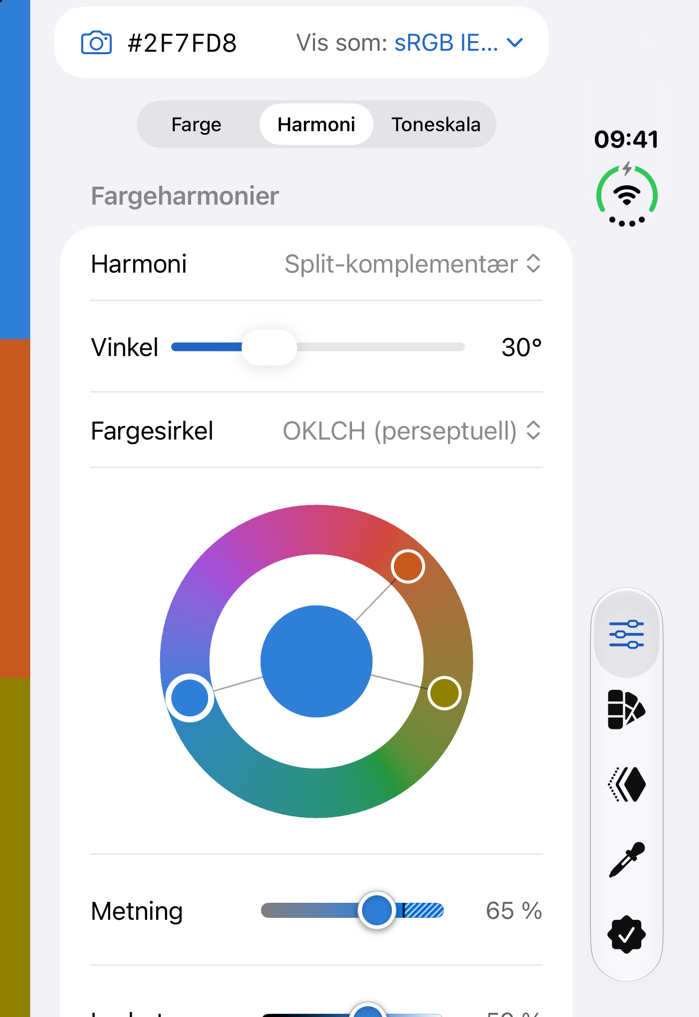
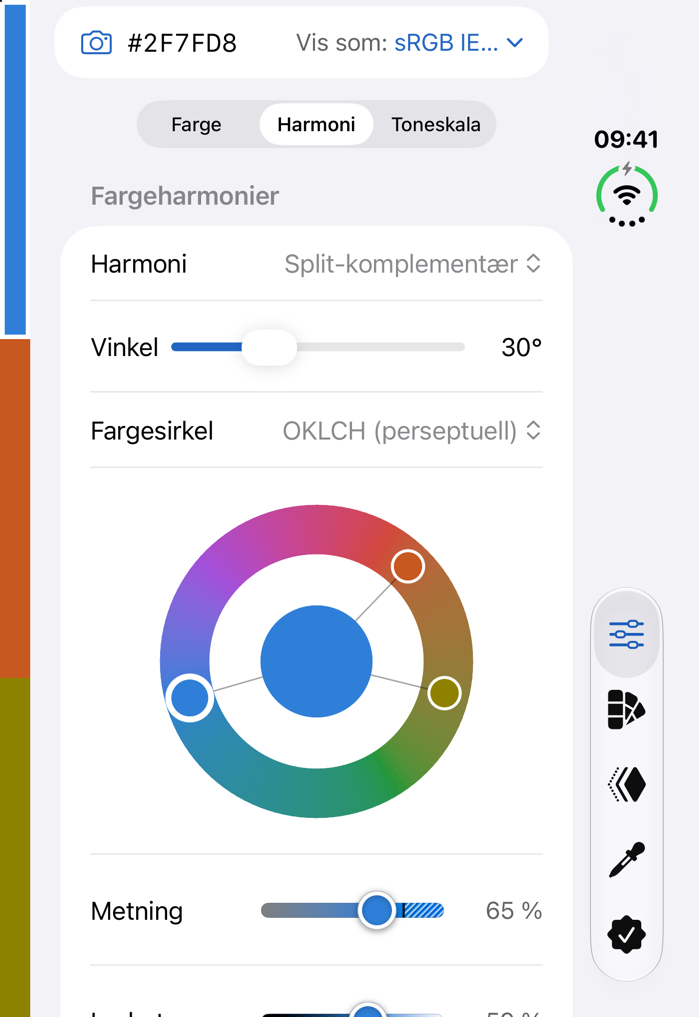
Web 1.4 Duo-siden: lukket Harmoni (nb, en), Overgang og Farger (en) på nytt med rammene i fargelinjen

Changed region(s): [[0.0, 0.0, 0.0601, 0.3353]]

diff --git a/web/1.4/en/duo.html b/web/1.4/en/duo.html
@@ -69,11 +69,11 @@
       </div>
       <div class="duo-bilder">
         <figure class="duo-lukket">
-          <img src="../assets/en/duo/lukket-studio-farge.png?d=2" alt="Studio with the colour and the sliders – closed" width="699" height="1017" loading="lazy">
+          <img src="../assets/en/duo/lukket-studio-farge.png?d=3" alt="Studio with the colour and the sliders – closed" width="699" height="1017" loading="lazy">
           <figcaption>Closed</figcaption>
         </figure>
         <figure class="duo-åpen">
-          <img src="../assets/en/duo/apen-studio-farge.png?d=2" alt="Studio with the colour and the sliders – open" width="1427" height="1004" loading="lazy">
+          <img src="../assets/en/duo/apen-studio-farge.png?d=3" alt="Studio with the colour and the sliders – open" width="1427" height="1004" loading="lazy">
           <figcaption>Open</figcaption>
         </figure>
       </div>
@@ -90,11 +90,11 @@
       </div>
       <div class="duo-bilder">
         <figure class="duo-lukket">
-          <img src="../assets/en/duo/lukket-studio-harmoni.png?d=2" alt="A split-complementary harmony – closed" width="699" height="1017" loading="lazy">
+          <img src="../assets/en/duo/lukket-studio-harmoni.png?d=3" alt="A split-complementary harmony – closed" width="699" height="1017" loading="lazy">
           <figcaption>Closed</figcaption>
         </figure>
         <figure class="duo-åpen">
-          <img src="../assets/en/duo/apen-studio-harmoni.png?d=2" alt="A split-complementary harmony – open" width="1427" height="1004" loading="lazy">
+          <img src="../assets/en/duo/apen-studio-harmoni.png?d=3" alt="A split-complementary harmony – open" width="1427" height="1004" loading="lazy">
           <figcaption>Open</figcaption>
         </figure>
       </div>
@@ -110,11 +110,11 @@
       </div>
       <div class="duo-bilder">
         <figure class="duo-lukket">
-          <img src="../assets/en/duo/lukket-studio-toneskala.png?d=2" alt="A tone scale with eleven steps – closed" width="699" height="1017" loading="lazy">
+          <img src="../assets/en/duo/lukket-studio-toneskala.png?d=3" alt="A tone scale with eleven steps – closed" width="699" height="1017" loading="lazy">
           <figcaption>Closed</figcaption>
         </figure>
         <figure class="duo-åpen">
-          <img src="../assets/en/duo/apen-studio-toneskala.png?d=2" alt="A tone scale with eleven steps – open" width="1427" height="1004" loading="lazy">
+          <img src="../assets/en/duo/apen-studio-toneskala.png?d=3" alt="A tone scale with eleven steps – open" width="1427" height="1004" loading="lazy">
           <figcaption>Open</figcaption>
         </figure>
       </div>
@@ -130,11 +130,11 @@
       </div>
       <div class="duo-bilder">
         <figure class="duo-lukket">
-          <img src="../assets/en/duo/lukket-overgang.png?d=2" alt="A gradient in seven tones – closed" width="699" height="1017" loading="lazy">
+          <img src="../assets/en/duo/lukket-overgang.png?d=3" alt="A gradient in seven tones – closed" width="699" height="1017" loading="lazy">
           <figcaption>Closed</figcaption>
         </figure>
         <figure class="duo-åpen">
-          <img src="../assets/en/duo/apen-overgang.png?d=2" alt="A gradient in seven tones – open" width="1427" height="1004" loading="lazy">
+          <img src="../assets/en/duo/apen-overgang.png?d=3" alt="A gradient in seven tones – open" width="1427" height="1004" loading="lazy">
           <figcaption>Open</figcaption>
         </figure>
       </div>
@@ -150,11 +150,11 @@
       </div>
       <div class="duo-bilder">
         <figure class="duo-lukket">
-          <img src="../assets/en/duo/lukket-kontrast.png?d=2" alt="Contrast check for text on a white background – closed" width="699" height="1017" loading="lazy">
+          <img src="../assets/en/duo/lukket-kontrast.png?d=3" alt="Contrast check for text on a white background – closed" width="699" height="1017" loading="lazy">
           <figcaption>Closed</figcaption>
         </figure>
         <figure class="duo-åpen">
-          <img src="../assets/en/duo/apen-kontrast.png?d=2" alt="Contrast check for text on a white background – open" width="1427" height="1004" loading="lazy">
+          <img src="../assets/en/duo/apen-kontrast.png?d=3" alt="Contrast check for text on a white background – open" width="1427" height="1004" loading="lazy">
           <figcaption>Open</figcaption>
         </figure>
       </div>
@@ -170,11 +170,11 @@
       </div>
       <div class="duo-bilder">
         <figure class="duo-lukket">
-          <img src="../assets/en/duo/lukket-deltae.png?d=2" alt="The colour difference between two colours – closed" width="699" height="1017" loading="lazy">
+          <img src="../assets/en/duo/lukket-deltae.png?d=3" alt="The colour difference between two colours – closed" width="699" height="1017" loading="lazy">
           <figcaption>Closed</figcaption>
         </figure>
         <figure class="duo-åpen">
-          <img src="../assets/en/duo/apen-deltae.png?d=2" alt="The colour difference between two colours – open" width="1427" height="1004" loading="lazy">
+          <img src="../assets/en/duo/apen-deltae.png?d=3" alt="The colour difference between two colours – open" width="1427" height="1004" loading="lazy">
           <figcaption>Open</figcaption>
         </figure>
       </div>
@@ -192,11 +192,11 @@
       </div>
       <div class="duo-bilder">
         <figure class="duo-lukket">
-          <img src="../assets/en/duo/lukket-fargesyn.png?d=2" alt="A palette with normal vision and deuteranopia – closed" width="699" height="1017" loading="lazy">
+          <img src="../assets/en/duo/lukket-fargesyn.png?d=3" alt="A palette with normal vision and deuteranopia – closed" width="699" height="1017" loading="lazy">
           <figcaption>Closed</figcaption>
         </figure>
         <figure class="duo-åpen">
-          <img src="../assets/en/duo/apen-fargesyn.png?d=2" alt="A palette with normal vision and deuteranopia – open" width="1427" height="1004" loading="lazy">
+          <img src="../assets/en/duo/apen-fargesyn.png?d=3" alt="A palette with normal vision and deuteranopia – open" width="1427" height="1004" loading="lazy">
           <figcaption>Open</figcaption>
         </figure>
       </div>
@@ -212,11 +212,11 @@
       </div>
       <div class="duo-bilder">
         <figure class="duo-lukket">
-          <img src="../assets/en/duo/lukket-lys.png?d=2" alt="A colour under several viewing conditions – closed" width="699" height="1017" loading="lazy">
+          <img src="../assets/en/duo/lukket-lys.png?d=3" alt="A colour under several viewing conditions – closed" width="699" height="1017" loading="lazy">
           <figcaption>Closed</figcaption>
         </figure>
         <figure class="duo-åpen">
-          <img src="../assets/en/duo/apen-lys.png?d=2" alt="A colour under several viewing conditions – open" width="1427" height="1004" loading="lazy">
+          <img src="../assets/en/duo/apen-lys.png?d=3" alt="A colour under several viewing conditions – open" width="1427" height="1004" loading="lazy">
           <figcaption>Open</figcaption>
         </figure>
       </div>
@@ -232,13 +232,13 @@
       </div>
       <div class="duo-bilder høyde">
         <figure class="duo-høyde">
-          <img src="../assets/en/duo/hoyde-studio-harmoni.png?d=2" alt="A harmony, upright" width="1004" height="1427" loading="lazy">
+          <img src="../assets/en/duo/hoyde-studio-harmoni.png?d=3" alt="A harmony, upright" width="1004" height="1427" loading="lazy">
         </figure>
         <figure class="duo-høyde">
-          <img src="../assets/en/duo/hoyde-overgang.png?d=2" alt="A gradient, upright" width="1004" height="1427" loading="lazy">
+          <img src="../assets/en/duo/hoyde-overgang.png?d=3" alt="A gradient, upright" width="1004" height="1427" loading="lazy">
         </figure>
         <figure class="duo-høyde">
-          <img src="../assets/en/duo/hoyde-fargesyn.png?d=2" alt="Colour vision, upright" width="1004" height="1427" loading="lazy">
+          <img src="../assets/en/duo/hoyde-fargesyn.png?d=3" alt="Colour vision, upright" width="1004" height="1427" loading="lazy">
         </figure>
       </div>
     </section>

diff --git a/web/1.4/duo.html b/web/1.4/duo.html
@@ -69,11 +69,11 @@
       </div>
       <div class="duo-bilder">
         <figure class="duo-lukket">
-          <img src="assets/duo/lukket-studio-farge.png?d=2" alt="Studio med fargen og gliderne – lukket" width="699" height="1017" loading="lazy">
+          <img src="assets/duo/lukket-studio-farge.png?d=3" alt="Studio med fargen og gliderne – lukket" width="699" height="1017" loading="lazy">
           <figcaption>Lukket</figcaption>
         </figure>
         <figure class="duo-åpen">
-          <img src="assets/duo/apen-studio-farge.png?d=2" alt="Studio med fargen og gliderne – åpen" width="1427" height="1004" loading="lazy">
+          <img src="assets/duo/apen-studio-farge.png?d=3" alt="Studio med fargen og gliderne – åpen" width="1427" height="1004" loading="lazy">
           <figcaption>Åpen</figcaption>
         </figure>
       </div>
@@ -90,11 +90,11 @@
       </div>
       <div class="duo-bilder">
         <figure class="duo-lukket">
-          <img src="assets/duo/lukket-studio-harmoni.png?d=2" alt="En split-komplementær harmoni – lukket" width="699" height="1017" loading="lazy">
+          <img src="assets/duo/lukket-studio-harmoni.png?d=3" alt="En split-komplementær harmoni – lukket" width="699" height="1017" loading="lazy">
           <figcaption>Lukket</figcaption>
         </figure>
         <figure class="duo-åpen">
-          <img src="assets/duo/apen-studio-harmoni.png?d=2" alt="En split-komplementær harmoni – åpen" width="1427" height="1004" loading="lazy">
+          <img src="assets/duo/apen-studio-harmoni.png?d=3" alt="En split-komplementær harmoni – åpen" width="1427" height="1004" loading="lazy">
           <figcaption>Åpen</figcaption>
         </figure>
       </div>
@@ -110,11 +110,11 @@
       </div>
       <div class="duo-bilder">
         <figure class="duo-lukket">
-          <img src="assets/duo/lukket-studio-toneskala.png?d=2" alt="En toneskala med elleve trinn – lukket" width="699" height="1017" loading="lazy">
+          <img src="assets/duo/lukket-studio-toneskala.png?d=3" alt="En toneskala med elleve trinn – lukket" width="699" height="1017" loading="lazy">
           <figcaption>Lukket</figcaption>
         </figure>
         <figure class="duo-åpen">
-          <img src="assets/duo/apen-studio-toneskala.png?d=2" alt="En toneskala med elleve trinn – åpen" width="1427" height="1004" loading="lazy">
+          <img src="assets/duo/apen-studio-toneskala.png?d=3" alt="En toneskala med elleve trinn – åpen" width="1427" height="1004" loading="lazy">
           <figcaption>Åpen</figcaption>
         </figure>
       </div>
@@ -130,11 +130,11 @@
       </div>
       <div class="duo-bilder">
         <figure class="duo-lukket">
-          <img src="assets/duo/lukket-overgang.png?d=2" alt="En overgang i sju toner – lukket" width="699" height="1017" loading="lazy">
+          <img src="assets/duo/lukket-overgang.png?d=3" alt="En overgang i sju toner – lukket" width="699" height="1017" loading="lazy">
           <figcaption>Lukket</figcaption>
         </figure>
         <figure class="duo-åpen">
-          <img src="assets/duo/apen-overgang.png?d=2" alt="En overgang i sju toner – åpen" width="1427" height="1004" loading="lazy">
+          <img src="assets/duo/apen-overgang.png?d=3" alt="En overgang i sju toner – åpen" width="1427" height="1004" loading="lazy">
           <figcaption>Åpen</figcaption>
         </figure>
       </div>
@@ -150,11 +150,11 @@
       </div>
       <div class="duo-bilder">
         <figure class="duo-lukket">
-          <img src="assets/duo/lukket-kontrast.png?d=2" alt="Kontrastsjekk for tekst på hvit bakgrunn – lukket" width="699" height="1017" loading="lazy">
+          <img src="assets/duo/lukket-kontrast.png?d=3" alt="Kontrastsjekk for tekst på hvit bakgrunn – lukket" width="699" height="1017" loading="lazy">
           <figcaption>Lukket</figcaption>
         </figure>
         <figure class="duo-åpen">
-          <img src="assets/duo/apen-kontrast.png?d=2" alt="Kontrastsjekk for tekst på hvit bakgrunn – åpen" width="1427" height="1004" loading="lazy">
+          <img src="assets/duo/apen-kontrast.png?d=3" alt="Kontrastsjekk for tekst på hvit bakgrunn – åpen" width="1427" height="1004" loading="lazy">
           <figcaption>Åpen</figcaption>
         </figure>
       </div>
@@ -170,11 +170,11 @@
       </div>
       <div class="duo-bilder">
         <figure class="duo-lukket">
-          <img src="assets/duo/lukket-deltae.png?d=2" alt="Fargeforskjellen mellom to farger – lukket" width="699" height="1017" loading="lazy">
+          <img src="assets/duo/lukket-deltae.png?d=3" alt="Fargeforskjellen mellom to farger – lukket" width="699" height="1017" loading="lazy">
           <figcaption>Lukket</figcaption>
         </figure>
         <figure class="duo-åpen">
-          <img src="assets/duo/apen-deltae.png?d=2" alt="Fargeforskjellen mellom to farger – åpen" width="1427" height="1004" loading="lazy">
+          <img src="assets/duo/apen-deltae.png?d=3" alt="Fargeforskjellen mellom to farger – åpen" width="1427" height="1004" loading="lazy">
           <figcaption>Åpen</figcaption>
         </figure>
       </div>
@@ -192,11 +192,11 @@
       </div>
       <div class="duo-bilder">
         <figure class="duo-lukket">
-          <img src="assets/duo/lukket-fargesyn.png?d=2" alt="En palett med normalt syn og deuteranopi – lukket" width="699" height="1017" loading="lazy">
+          <img src="assets/duo/lukket-fargesyn.png?d=3" alt="En palett med normalt syn og deuteranopi – lukket" width="699" height="1017" loading="lazy">
           <figcaption>Lukket</figcaption>
         </figure>
         <figure class="duo-åpen">
-          <img src="assets/duo/apen-fargesyn.png?d=2" alt="En palett med normalt syn og deuteranopi – åpen" width="1427" height="1004" loading="lazy">
+          <img src="assets/duo/apen-fargesyn.png?d=3" alt="En palett med normalt syn og deuteranopi – åpen" width="1427" height="1004" loading="lazy">
           <figcaption>Åpen</figcaption>
         </figure>
       </div>
@@ -212,11 +212,11 @@
       </div>
       <div class="duo-bilder">
         <figure class="duo-lukket">
-          <img src="assets/duo/lukket-lys.png?d=2" alt="En farge under flere betraktningsforhold – lukket" width="699" height="1017" loading="lazy">
+          <img src="assets/duo/lukket-lys.png?d=3" alt="En farge under flere betraktningsforhold – lukket" width="699" height="1017" loading="lazy">
           <figcaption>Lukket</figcaption>
         </figure>
         <figure class="duo-åpen">
-          <img src="assets/duo/apen-lys.png?d=2" alt="En farge under flere betraktningsforhold – åpen" width="1427" height="1004" loading="lazy">
+          <img src="assets/duo/apen-lys.png?d=3" alt="En farge under flere betraktningsforhold – åpen" width="1427" height="1004" loading="lazy">
           <figcaption>Åpen</figcaption>
         </figure>
       </div>
@@ -232,13 +232,13 @@
       </div>
       <div class="duo-bilder høyde">
         <figure class="duo-høyde">
-          <img src="assets/duo/hoyde-studio-harmoni.png?d=2" alt="En harmoni, stående" width="1004" height="1427" loading="lazy">
+          <img src="assets/duo/hoyde-studio-harmoni.png?d=3" alt="En harmoni, stående" width="1004" height="1427" loading="lazy">
         </figure>
         <figure class="duo-høyde">
-          <img src="assets/duo/hoyde-overgang.png?d=2" alt="En overgang, stående" width="1004" height="1427" loading="lazy">
+          <img src="assets/duo/hoyde-overgang.png?d=3" alt="En overgang, stående" width="1004" height="1427" loading="lazy">
         </figure>
         <figure class="duo-høyde">
-          <img src="assets/duo/hoyde-fargesyn.png?d=2" alt="Fargesyn, stående" width="1004" height="1427" loading="lazy">
+          <img src="assets/duo/hoyde-fargesyn.png?d=3" alt="Fargesyn, stående" width="1004" height="1427" loading="lazy">
         </figure>
       </div>
     </section>

diff --git a/web/verktøy/lag_sider.py b/web/verktøy/lag_sider.py
@@ -236,7 +236,7 @@ def duobilde(lang, tilstand, navn, alt):
         src = f'../assets/en/duo/{fil}' if os.path.exists(f'{W}/assets/en/duo/{fil}') else f'../assets/duo/{fil}'
     else:
         src = f'assets/duo/{fil}'
-    return f'<img src="{src}?d=2" alt="{alt}" width="{b}" height="{h}" loading="lazy">'
+    return f'<img src="{src}?d=3" alt="{alt}" width="{b}" height="{h}" loading="lazy">'
 
 
 def duofigur(lang, art, navn, alt):
